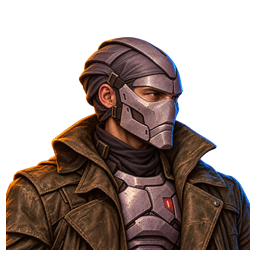
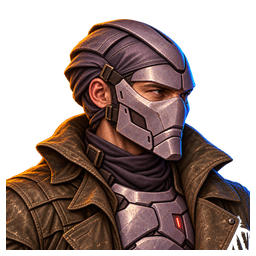
Portraits: owner-supplied set for nine units
Luke, infiltrator, Republic Commander, heavy weapons squad, slicer team,
Psadan, recon squad (now its own portrait), decontamination droid and
engineer squad.

diff --git a/docs/ART_CREDITS.md b/docs/ART_CREDITS.md
@@ -169,3 +169,11 @@ AT-ST walker, cloaked asteroid)
 got full Codex sheets in the house style (`gen_codex_owner_sheets.py`, the
 speeder sheet as template, the old sprite as the design reference); their
 shots and effects are painted, so no flash is blitted over them.
+
+## Owner-supplied portraits (2026-10-08)
+
+From `character-portraits-v1.zip` (kept as `~/art-references/portraits-v1/`),
+fitted to 256x256 with `production/tools/fit_portrait.py`: Luke (also used by
+his unarmed variation), Imperial Infiltrator, Republic Commander, Heavy
+Weapons Squad, Slicer Team, Psadan Elder, Recon Squad (previously a mainline
+peasant portrait), Decontamination Droid and Combat Engineer Squad.
